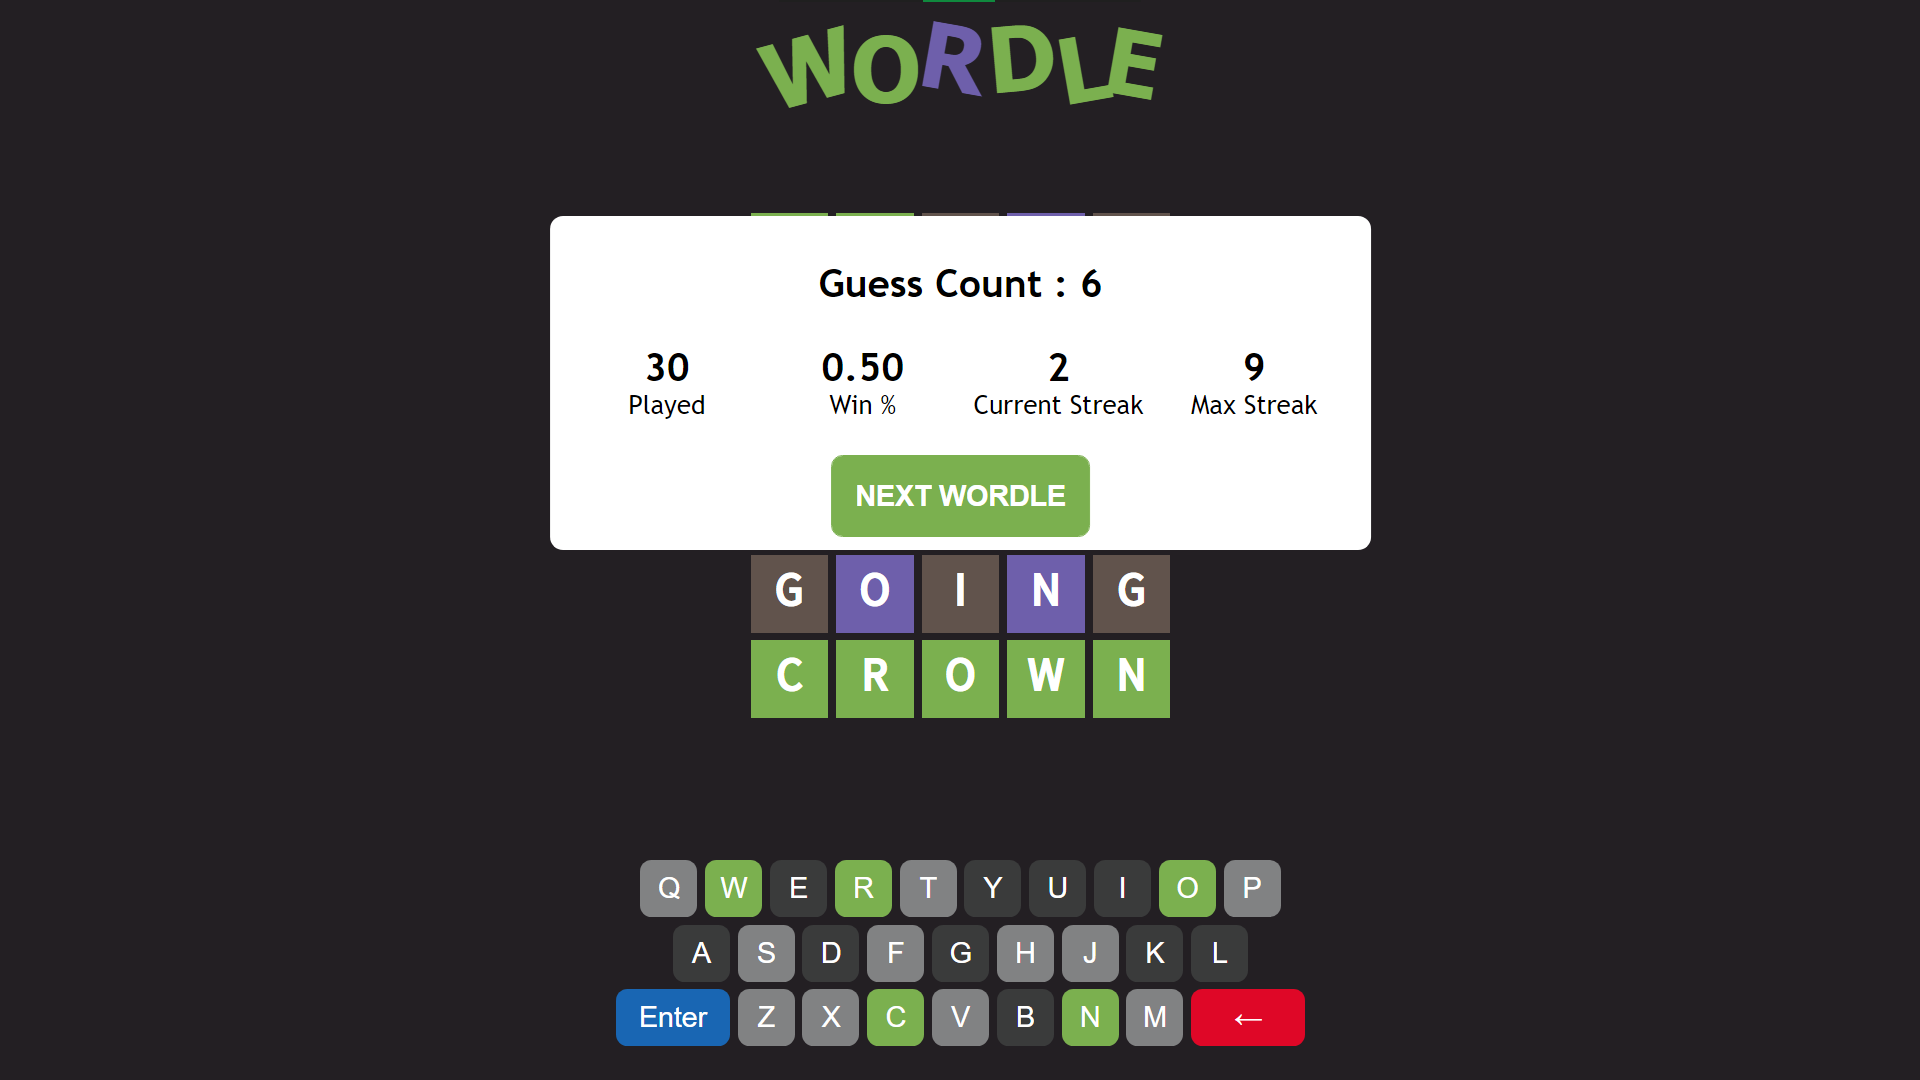
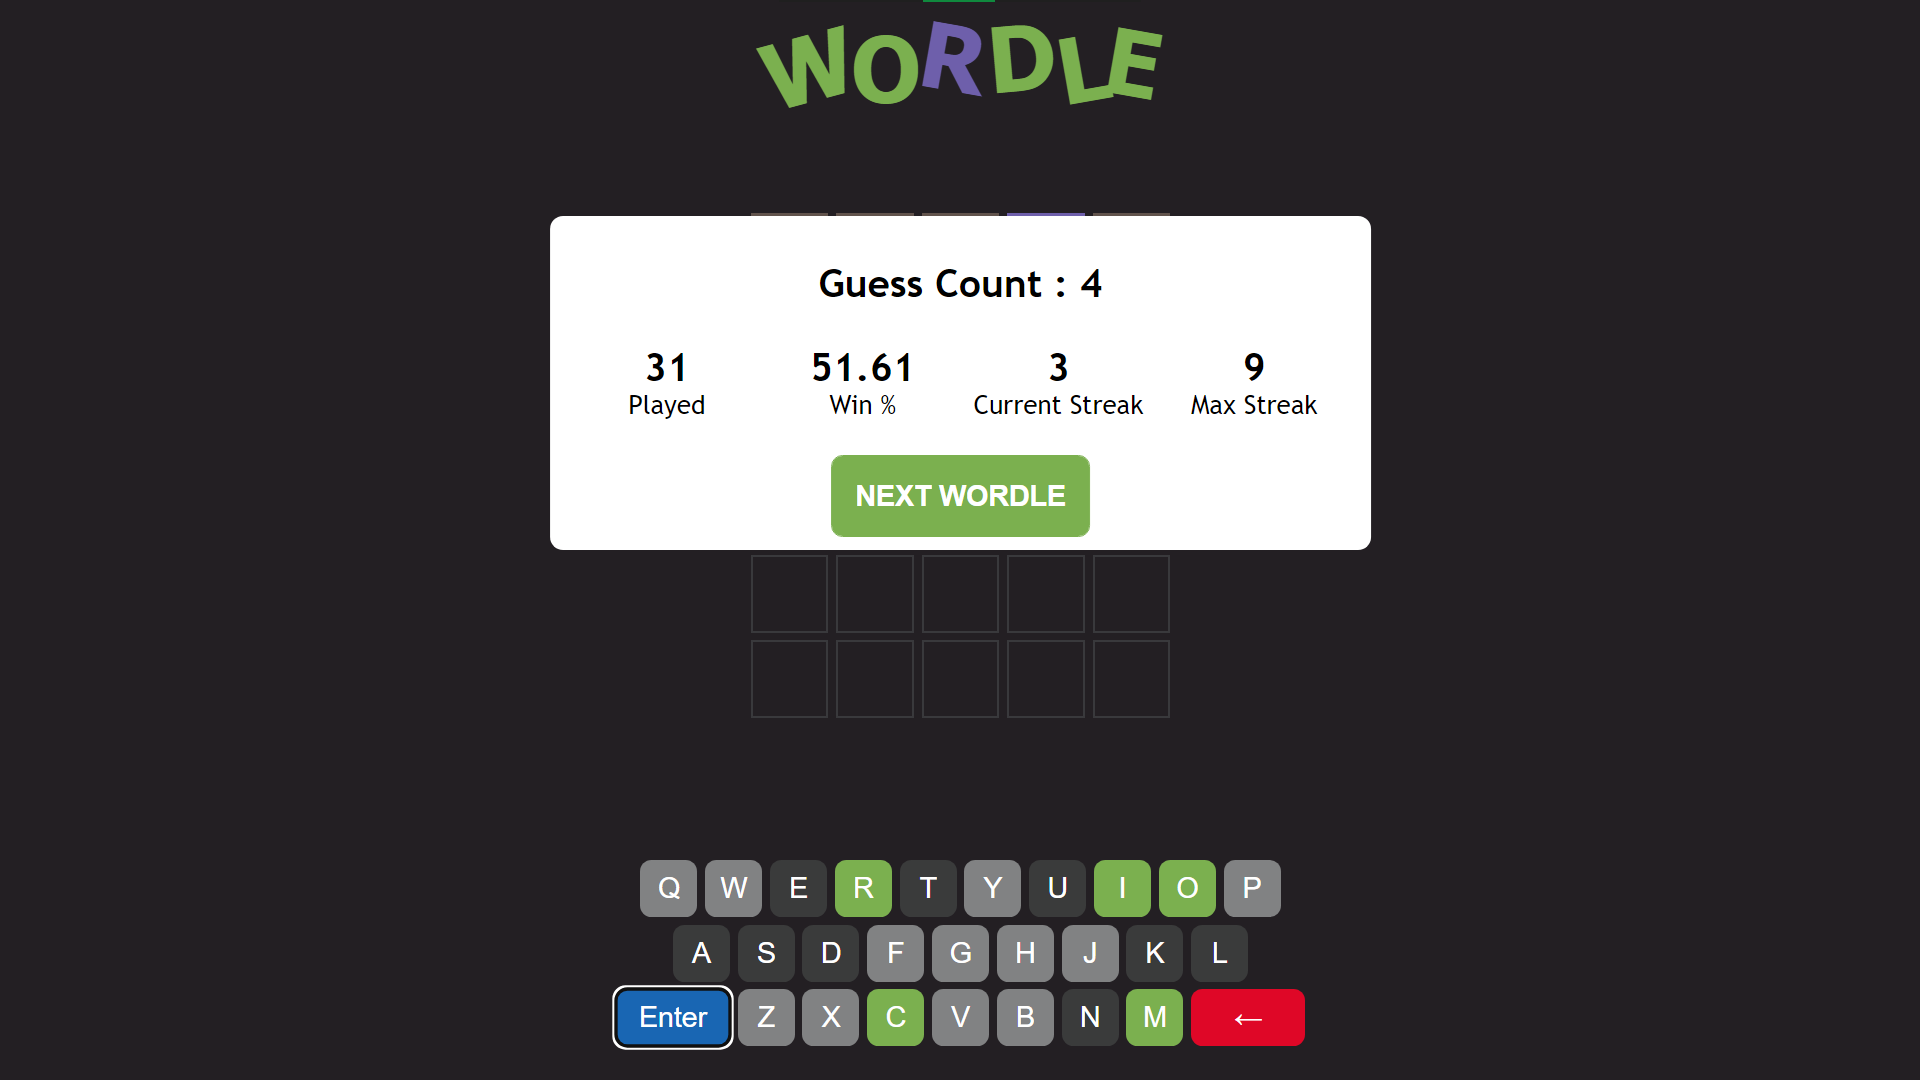
fix win rate calculation

diff --git a/wordle/script.js b/wordle/script.js
@@ -54,9 +54,10 @@ function updateStatistics() {
 function updateScoreboard() {
   scoreboard.querySelector("[data-games]").textContent =
     localStorage.getItem(LOCAL_GAMES);
-  let winRate = getLocalData(LOCAL_WINS) / getLocalData(LOCAL_GAMES);
+  let winRate =
+    (getLocalData(LOCAL_WINS) / getLocalData(LOCAL_GAMES)).toFixed(4) * 100;
 
-  scoreboard.querySelector("[data-win-rate]").textContent = winRate.toFixed(2);
+  scoreboard.querySelector("[data-win-rate]").textContent = winRate;
   scoreboard.querySelector("[data-streak]").textContent =
     localStorage.getItem(LOCAL_STREAK);
   scoreboard.querySelector("[data-max-streak]").textContent =
